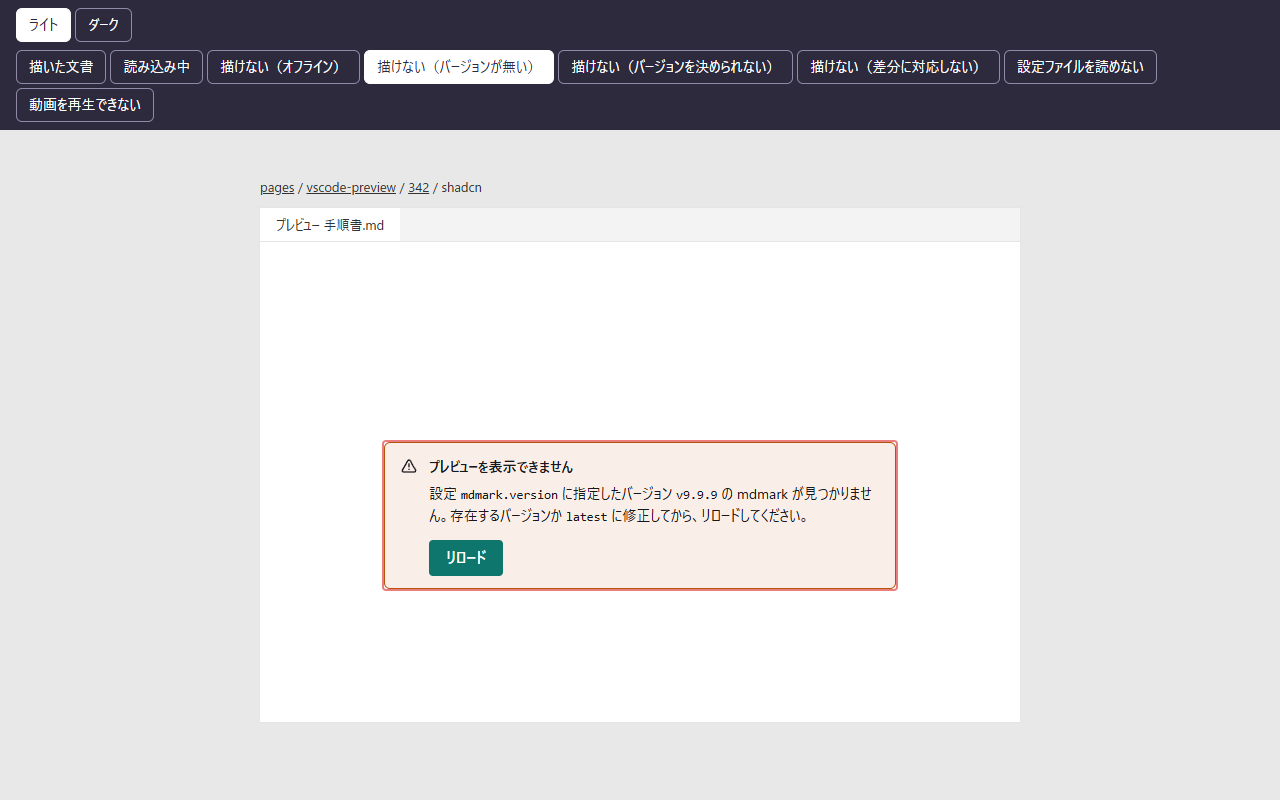
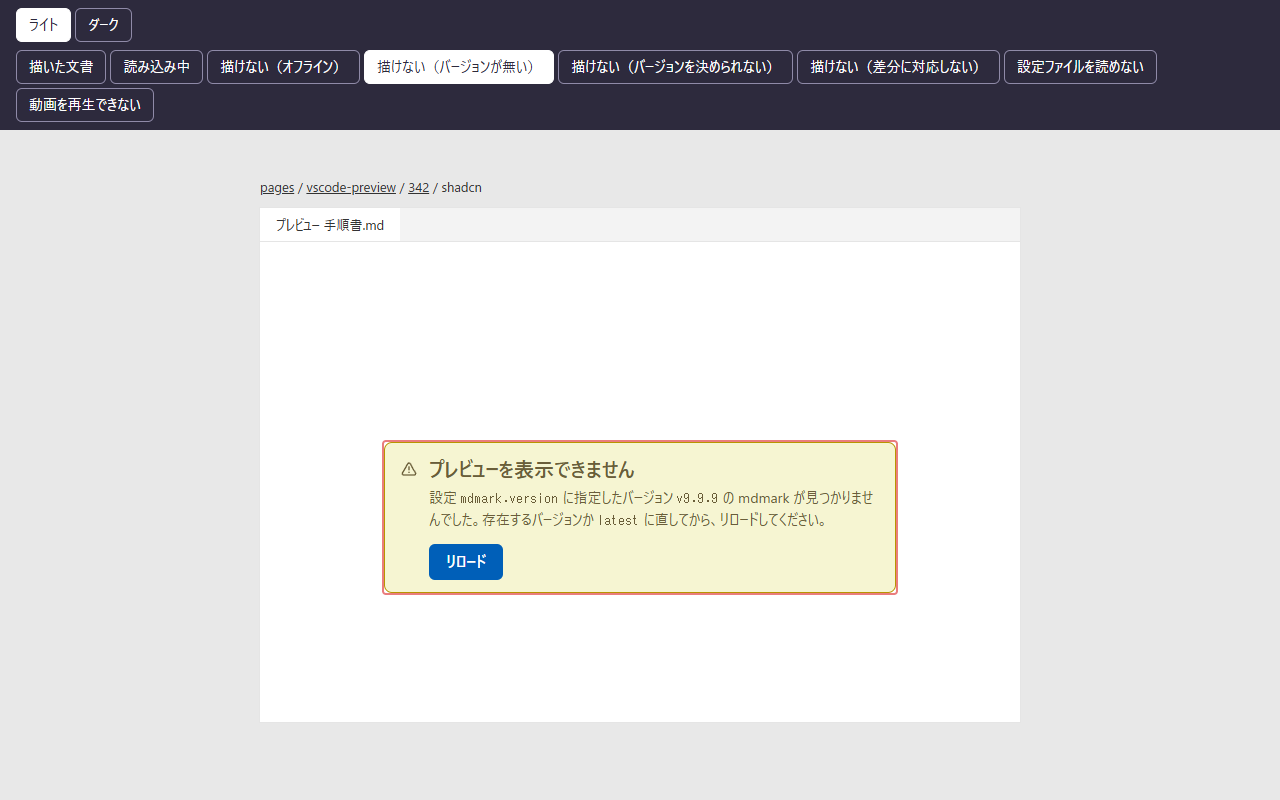
design: モックの VS Code の色を html に置き、警告の文字の色を寄せて撮り直す

Changed region(s): [[0.2812, 0.5625, 0.7188, 0.75]]

diff --git a/dev/mock/refs/342/assets/panel.css b/dev/mock/refs/342/assets/panel.css
@@ -1,7 +1,7 @@
 /* VS Code のプレビューのパネルの部品（shadcn/ui の Alert・Button・Spinner）。実装の Tailwind のクラスが当てる見た目を、モックでは同じ値の CSS で表す */
 
-/* VS Code が Webview に渡す色の仮の値（モックだけ。実装では VS Code が --vscode-* を渡す。値は Light Modern と Dark Modern） */
-body.vscode-light {
+/* VS Code が Webview の html に渡す色の仮の値（モックだけ。実装では VS Code が --vscode-* を渡す。値は Light Modern と Dark Modern。preview.js が html の data-scheme を当てる） */
+:root[data-scheme="light"] {
   --vscode-font-family: system-ui, sans-serif;
   --vscode-editor-background: #ffffff;
   --vscode-editor-foreground: #3b3b3b;
@@ -18,7 +18,7 @@ body.vscode-light {
   --vscode-focusBorder: #005fb8;
 }
 
-body.vscode-dark {
+:root[data-scheme="dark"] {
   --vscode-font-family: system-ui, sans-serif;
   --vscode-editor-background: #1f1f1f;
   --vscode-editor-foreground: #cccccc;
@@ -53,7 +53,8 @@ body.vscode-dark {
   /* Alert の warning の variant */
   --warning: var(--vscode-inputValidation-warningBackground);
   --warning-border: var(--vscode-inputValidation-warningBorder);
-  --warning-foreground: var(--vscode-editor-foreground);
+  /* 文字は本文の色を警告の色へ寄せる（色の上に無彩色の文字を置かない） */
+  --warning-foreground: color-mix(in oklab, var(--vscode-editor-foreground) 60%, var(--vscode-inputValidation-warningBorder));
 }
 
 /* パネルの部品の下地: 書体は VS Code の UI と同じ */
